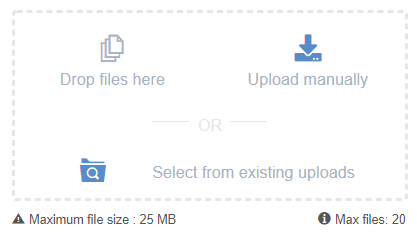
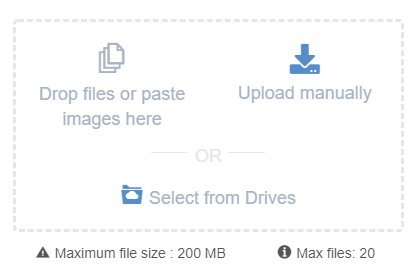
Cloud drives M35 documentation

diff --git a/docs/GettingStarted.rst b/docs/GettingStarted.rst
@@ -1428,7 +1428,7 @@ From the displayed interface, you have three options to add a file :
 
 - Drag and drop a file into the upload area
 - Upload manually from your device 
-- Select from existing uploads
+- Select from drives
 
 |image223|
 
@@ -1499,7 +1499,7 @@ Normal links preview:
 
 |image244|
 
-.. note:: If the link doesn't contain any image, the following default image appears as a preview 
+.. note:: If the link doesn't contain any image or isn't recognized, the following default image appears as a preview 
 			|image245|
 
 Video Links preview : 
@@ -1508,6 +1508,53 @@ Video Links preview :
 
 
 .. note:: The supported video players are Youtube, Vimeo and Dailymotion.
+
+
+.. _CloudDrives:
+
+
+Connecting to drives
+~~~~~~~~~~~~~~~~~~~~~
+
+It is possible to attach documents from one of your external drives by connecting to them from the composer's "Select from drives" drawer.
+
+|image247|
+
+From the root folder "Drives", the folders are organized by blocks :
+
+My drives: Contains your personal documents and shortcuts to your connected cloud drives.
+
+My spaces : Contains folders from the spaces in which you are a member.
+
+Others : displays "Users" folder if you are a regular member and other folders relatef to admins if you have the admin role.
+
+To connect to a cloud drive account, you must use use the icon |image248|.
+
+This icon redirects you to "Connect your service" drawer that allows you to choose either to connect to a google drive account or a one drive account.
+
+|image249|
+
+Once you choose the desired option, you only have to accept the permission request of the service provider to be redirected to the initial tab containing a shortcut of the Gdrive or one in the "My drives" section of the drawer.
+
+|image250|
+
+|image251|
+
+A loader is displayed while the connection is in progress and the shortcut color is grey.
+
+|image252|
+
+The confirmation message is displayed when the connection is succesfully done and the shortcut's color turns to blue.
+
+|image254|
+
+|image255|
+
+.. note:: The actual supported cloud drives for eXo 6.0 version are Google drive and One drive.
+
+.. note:: It is possible to delete the connection to a cloud drive by deleting the related folder from document application. 
+			|image254|
+
 
 
 .. _News:
@@ -2774,3 +2821,12 @@ to display the original timestamp of the comment.
 .. |image244| image:: images/new_composer/link_preview.png
 .. |image245| image:: images/new_composer/default_preview_link.png
 .. |image246| image:: images/new_composer/create_new_folder.gif
+.. |image247| image:: images/new_composer/drives_drawer.png
+.. |image248| image:: images/new_composer/connect_icon.png
+.. |image249| image:: images/new_composer/connect_services_drawer.png
+.. |image250| image:: images/new_composer/google_permission.png
+.. |image251| image:: images/new_composer/onedrive_permission.png
+.. |image252| image:: images/new_composer/connection_progress.png
+.. |image253| image:: images/new_composer/connection_confirmation.png
+.. |image254| image:: images/new_composer/delete_connection.png
+.. |image255| image:: images/new_composer/connected_drive.png
